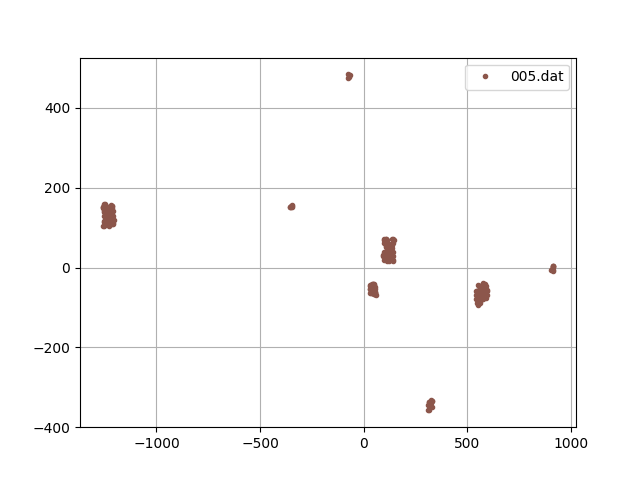
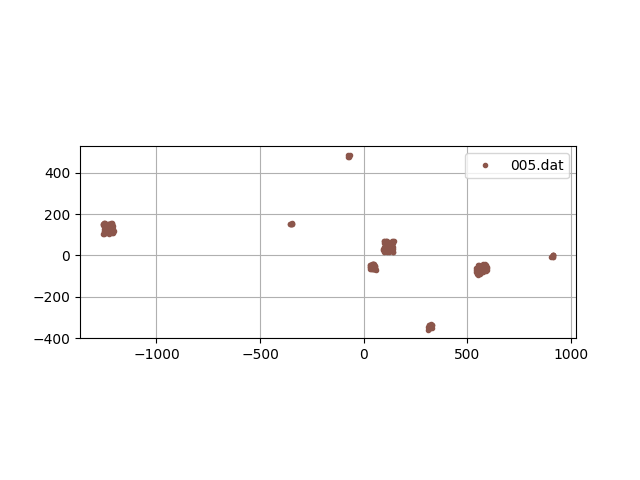
Issues 1 completed

diff --git a/Lab_MPL/Episode 1/main.py b/Lab_MPL/Episode 1/main.py
@@ -13,6 +13,7 @@ for num in range(1, 6):
         y.append(float(r[1]))
 
     f.close()
+    plt.gca().set_aspect('equal', adjustable='box')
     plt.plot(x, y, ".C%d" % num, label="00%d.dat" % num)
     plt.grid()
     plt.legend()
@@ -20,10 +21,10 @@ for num in range(1, 6):
     plt.show()
 
 # ---------------------------------------------------------------- #
-frames = []
-
-for frame_number in range(1, 6):
-    frame = Image.open(f'00{frame_number}.png')
-    frames.append(frame)
-
-frames[0].save('homer.gif', save_all=True, append_images=frames[1:], optimize=True, duration=2000, loop=0)
+# frames = []
+#
+# for frame_number in range(1, 6):
+#     frame = Image.open(f'00{frame_number}.png')
+#     frames.append(frame)
+#
+# frames[0].save('homer.gif', save_all=True, append_images=frames[1:], optimize=True, duration=2000, loop=0)
